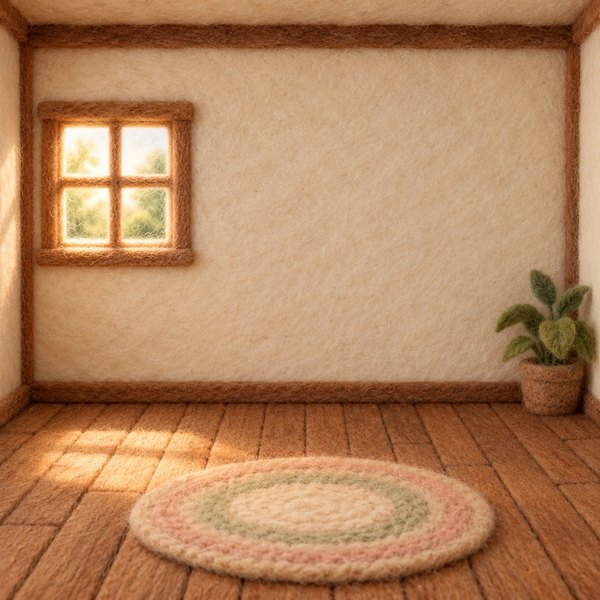
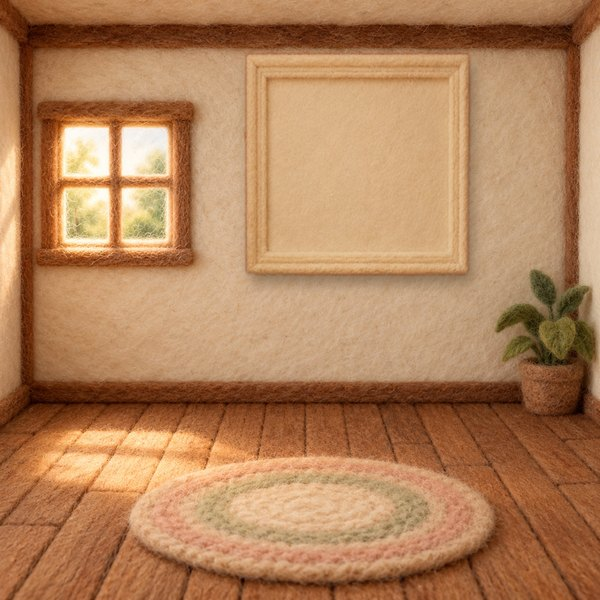
Frameless rooms get the real needle-felted frame (cut from the music room) hung on the wall, instead of a CSS frame

Changed region(s): [[0.39, 0.09, 0.81, 0.48]]

diff --git a/static/app.js b/static/app.js
@@ -1466,15 +1466,11 @@ const dayLabel = (d) => new Date(`${d}T12:00`).toLocaleDateString("en-US", { mon
 
 // a felt room photo behind a room; the postcard hangs in the picture frame the slicer found on its back wall
 const EMPTY_ROOMS = ["room_sage", "room_blue", "room_apricot", "room_blush", "room"];
-// rooms painted without a picture frame get one drawn on a bare stretch of wall (kept clear of the windows)
-const DRAWN_FRAME = { room: [.44, .13, .76, .45], room_apricot: [.2, .13, .52, .45], room_blue: [.42, .13, .74, .45],
-  room_blush: [.24, .13, .58, .45], room_sage: [.42, .13, .74, .45] };
 function roomPic(name) {
   const a = ART[`${name}.jpg`];
   if (!a) return "";
-  const painted = a.length >= 6;
-  const [x0, y0, x1, y1] = painted ? a.slice(2) : DRAWN_FRAME[name] || [.36, .14, .68, .46];
-  return `rpic ${painted ? "" : "framed"}" style="--bg:url(${artUrl(`${name}.jpg`)}); --x0:${x0}; --y0:${y0}; --x1:${x1}; --y1:${y1}`;
+  const [x0, y0, x1, y1] = a.length >= 6 ? a.slice(2) : [.36, .14, .68, .46];  // the frame on the wall (scripts/slice_art.py hangs one where a room has none)
+  return `rpic" style="--bg:url(${artUrl(`${name}.jpg`)}); --x0:${x0}; --y0:${y0}; --x1:${x1}; --y1:${y1}`;
 }
 
 function renderInside(opts = {}) {

diff --git a/static/style.css b/static/style.css
@@ -966,10 +966,6 @@ body.study .page { padding-bottom: 120px; }
 .room.rpic .rm-photo { position: absolute; flex: none; min-height: 0; border: 0; border-radius: 2px; box-shadow: inset 0 0 6px rgba(60, 40, 20, .35);
   left: calc(var(--x0) * 100%); top: calc(var(--y0) * 100%); width: calc((var(--x1) - var(--x0)) * 100%); height: calc((var(--y1) - var(--y0)) * 100%); }
 .room.rpic { container-type: inline-size; }
-/* a drawn felt frame for rooms that were painted without one: walnut wood, a cream mat, a soft shadow on the wall */
-.room.rpic.framed .rm-photo { overflow: visible; border: 1.6cqw solid #fffaf0; border-radius: 1px;
-  box-shadow: 0 0 0 1.4cqw #a8794e, 0 0 0 1.8cqw #6d4b2e, .6cqw 1.6cqw 2.4cqw 1.8cqw rgba(60, 40, 20, .35), inset 0 0 1.2cqw rgba(60, 40, 20, .3); }
-.room.rpic.framed .rm-photo img { border-radius: 0; }
 .room.rpic .tag { background: rgba(255, 250, 240, .92); border-radius: 9px; padding: 2px 9px 3px; box-shadow: 0 2px 4px rgba(60, 40, 20, .2); }
 .room.rpic.full:hover { transform: translateY(-3px) scale(1.03); }
 .room.rpic.next { border: 0; outline: 0; justify-content: flex-end; gap: 6px; box-shadow: 0 0 0 4px #ffe08a, 0 0 22px rgba(255, 200, 80, .55); }

diff --git a/scripts/slice_art.py b/scripts/slice_art.py
@@ -95,6 +95,54 @@ def frame_box(img):
     return None
 
 
+# rooms painted without a picture frame: where on the bare wall to hang one (inner box, as fractions; clear of the windows)
+DRAWN_FRAME = {"room": (.44, .13, .76, .45), "room_apricot": (.2, .13, .52, .45), "room_blue": (.42, .13, .74, .45),
+               "room_blush": (.24, .13, .58, .45), "room_sage": (.42, .13, .74, .45)}
+
+
+def felt_frame(width):
+    """The needle-felted frame from the music room, cut off its red wall: (RGBA crop, its inner box in crop pixels)."""
+    src = Image.open(RAW / "room_hall.png").convert("RGB")
+    src = src.resize((width, round(src.height * width / src.width)), Image.LANCZOS)
+    inner = frame_box(src)
+    W, H = src.size
+    m = round(.07 * W)
+    x0, y0, x1, y1 = round(inner[0] * W), round(inner[1] * H), round(inner[2] * W), round(inner[3] * H)
+    crop = src.crop((x0 - m, y0 - m, x1 + m, y1 + m))
+    a = np.asarray(crop, float)
+    wall = np.median(np.concatenate([a[:4].reshape(-1, 3), a[-4:].reshape(-1, 3), a[:, :4].reshape(-1, 3), a[:, -4:].reshape(-1, 3)]), axis=0)
+    keep = Image.fromarray((np.linalg.norm(a - wall, axis=-1) > 60).astype("uint8") * 255)
+    # the wall is whatever the edges reach; everything inside (frame and mat) stays
+    probe = keep.convert("RGB")
+    for seed in ((0, 0), (crop.width - 1, 0), (0, crop.height - 1), (crop.width - 1, crop.height - 1)):
+        if probe.getpixel(seed) == (0, 0, 0):
+            ImageDraw.floodfill(probe, seed, (255, 0, 0))
+    wallmask = np.all(np.asarray(probe) == (255, 0, 0), axis=-1)
+    # keep only the frame itself (the piece joined to the middle), not bits of guitar or hooks near the corners
+    solid = Image.fromarray(np.where(wallmask, 0, 255).astype("uint8")).filter(ImageFilter.MinFilter(3)).convert("RGB")
+    ImageDraw.floodfill(solid, (crop.width // 2, crop.height // 2), (0, 255, 0))
+    frame_only = np.all(np.asarray(solid) == (0, 255, 0), axis=-1)
+    alpha = Image.fromarray(frame_only.astype("uint8") * 255).filter(ImageFilter.MaxFilter(3)).filter(ImageFilter.GaussianBlur(1))
+    crop.putalpha(alpha)
+    return crop, (m, m, m + x1 - x0, m + y1 - y0)
+
+
+def hang_frame(img, box, frame):
+    """Hang the felt frame on a room's wall so its inner opening lands on box, with a soft shadow below it."""
+    piece, (ix0, iy0, ix1, iy1) = frame
+    W, H = img.size
+    tx0, ty0, tx1, ty1 = box[0] * W, box[1] * H, box[2] * W, box[3] * H
+    sx, sy = (tx1 - tx0) / (ix1 - ix0), (ty1 - ty0) / (iy1 - iy0)
+    piece = piece.resize((round(piece.width * sx), round(piece.height * sy)), Image.LANCZOS)
+    at = (round(tx0 - ix0 * sx), round(ty0 - iy0 * sy))
+    shadow = Image.new("RGBA", piece.size, (60, 40, 20, 0))
+    shadow.putalpha(piece.getchannel("A").point(lambda v: v * .45).filter(ImageFilter.GaussianBlur(W / 90)))
+    out = img.convert("RGBA")
+    out.alpha_composite(shadow, (at[0] + round(W / 150), at[1] + round(W / 70)))
+    out.alpha_composite(piece, at)
+    return out.convert("RGB")
+
+
 def save(img, name, width):
     if img.width > width:
         img = img.resize((width, round(img.height * width / img.width)), Image.LANCZOS)
@@ -104,7 +152,7 @@ def save(img, name, width):
 
 def main():
     ROOT.mkdir(exist_ok=True)
-    frames = {}
+    frames, frame = {}, None
     for f in sorted(RAW.glob("*.png")):  # background*, scene_*, room_* -> plain resized jpgs
         width = BACKDROPS.get(f.stem.split("_")[0])
         if not width:
@@ -115,6 +163,11 @@ def main():
         img.save(ROOT / f"{f.stem}.jpg", quality=86, optimize=True)
         if f.stem.startswith("room"):
             frames[f"{f.stem}.jpg"] = frame_box(img)
+            if not frames[f"{f.stem}.jpg"] and f.stem in DRAWN_FRAME and (RAW / "room_hall.png").exists():
+                frame = frame or felt_frame(width)
+                img = hang_frame(img, DRAWN_FRAME[f.stem], frame)
+                img.save(ROOT / f"{f.stem}.jpg", quality=86, optimize=True)
+                frames[f"{f.stem}.jpg"] = [round(v, 3) for v in DRAWN_FRAME[f.stem]]
         print(f"{f.stem}.jpg {img.width}x{img.height} {frames.get(f.stem + '.jpg') or ''}")
     # every other picture in raw/ is a building: roof, upper floor and ground floor, top to bottom
     others = sorted(f.stem for f in RAW.glob("*.png") if not f.stem.startswith(("background", "scene", "room", "scenery")))
